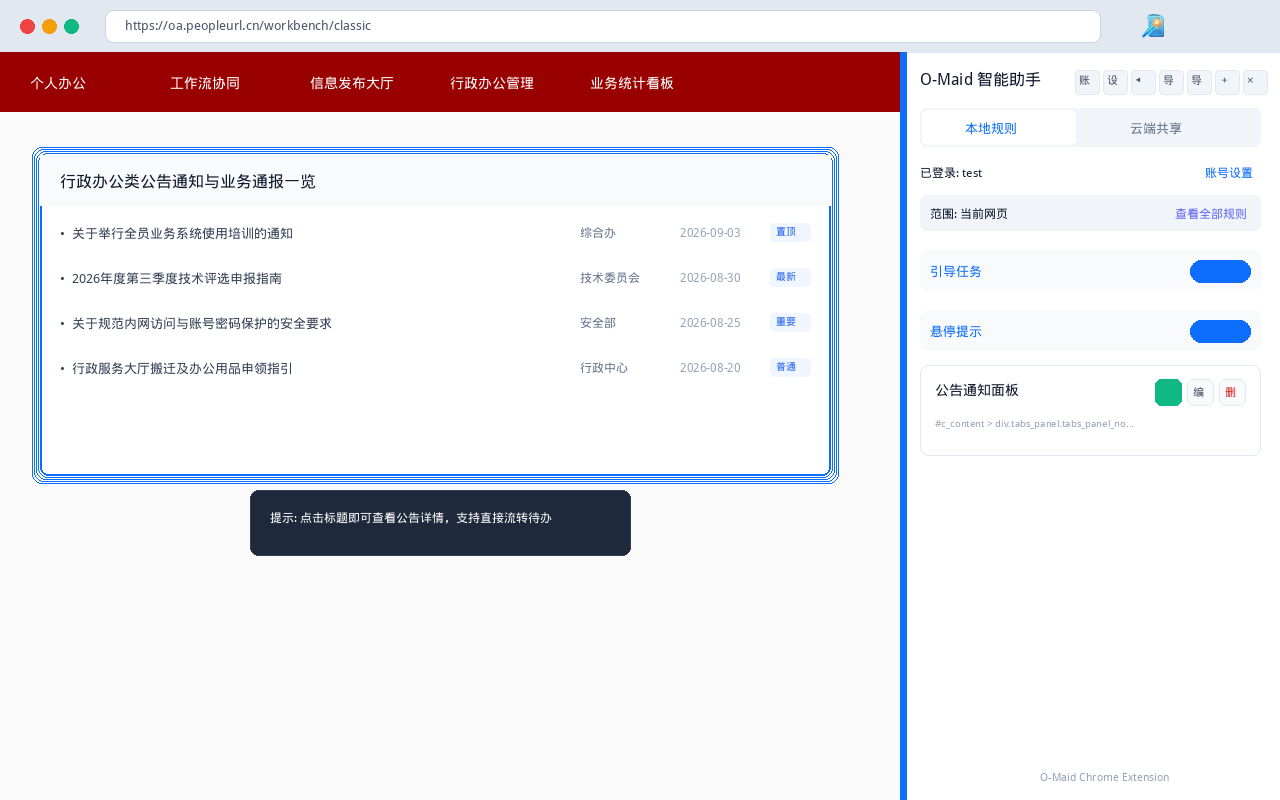
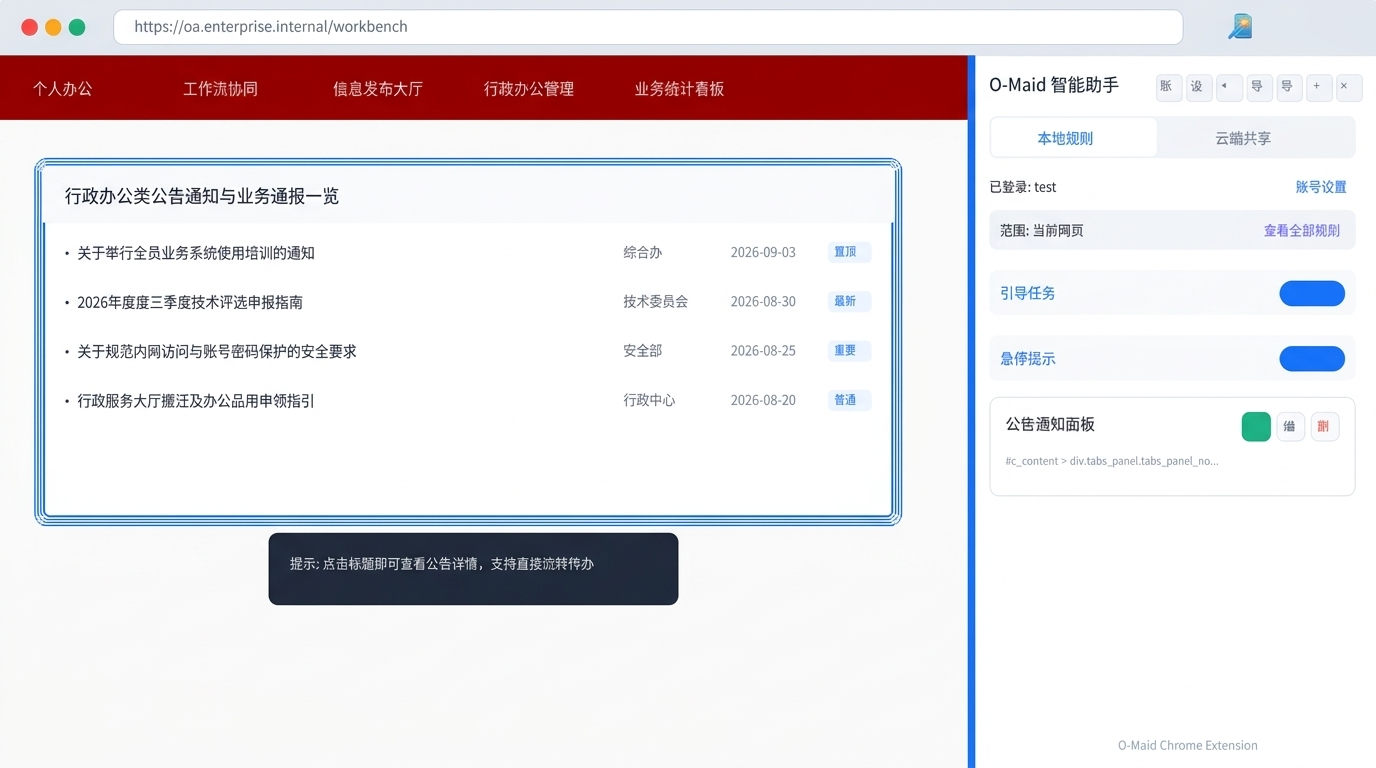
chore: update extension SEO, i18n, auto-versioning script, and screenshot URL

diff --git a/docs/Chrome应用商店文案与素材资料.md b/docs/Chrome应用商店文案与素材资料.md
@@ -8,9 +8,9 @@
 
 | 字段名称 | 填写内容 | 字符限制说明 |
 | :--- | :--- | :--- |
-| **软件包中的标题 (Title)** | `O-Maid 页面智能助手` | 来自 `manifest.json` 的 `name` 字段 |
-| **软件包中的摘要 (Summary)** | `网页元素智能标注、悬停提示与自动化业务流程引导助手。` | 来自 `manifest.json` 的 `description` 字段（建议在 132 字符以内） |
-| **类别 (Category)** | `工具 (Tools)` 或 `生产力工具 (Productivity)` | 开发者后台单选下拉框 |
+| **软件包中的标题 (Title)** | `O-Maid - 网页操作引导与智能提示助手` | 来自 `manifest.json` 的 `name` 字段 |
+| **软件包中的摘要 (Summary)** | `专为网页操作指引设计的智能助手。支持为任意网站添加悬浮提示、业务注解与新手操作引导，提升企业办公与网页浏览效率。` | 来自 `manifest.json` 的 `description` 字段（建议在 132 字符以内） |
+| **类别 (Category)** | `生产力工具 (Productivity)` 或 `工作流程与计划` | 开发者后台单选下拉框 |
 | **语言 (Language)** | `中文 (中国)` | 开发者后台单选下拉框 |
 
 ---
@@ -33,6 +33,8 @@
 
 ```text
 🌟 O-Maid 页面智能助手 —— 让复杂网页交互变得简单直观！
+
+> 🏷 关键词/适用场景：网页提示助手、操作指引、网页备忘录、新手引导、SaaS指导、业务注解、Page Guide、DOM Tooltip。
 
 你是否在面对繁杂的企业 OA 办公系统、ERP 内部后台或复杂业务网页时，经常记不清特定模块的作用？或者在团队新人入职时，需要反复制作枯燥的操作说明书？
 
